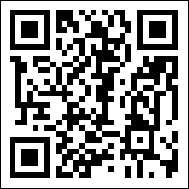
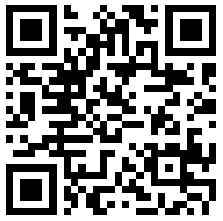
new bitcoin address

diff --git a/index.html b/index.html
@@ -790,8 +790,8 @@
 								<div class="col-md-4 col-sm-4">
 									<a target="_blank" href="https://coinbase.com/bwstitt">
 										<div class="btn-theme client-item">
-											<h2>Bitcoin <img class="qr" src="img/bitcoin_qr.png" alt="1Q1kDTPVb9spMWF24zRJZGwHPq9dMGQrkf" /></h2>
-											<small>1Q1kDTPVb9spMWF24zRJZGwHPq9dMGQrkf</small>
+											<h2>Bitcoin <img class="qr" src="img/bitcoin_qr.png" alt="12H2inF2BzdEQMMLzkDQugGppgHRhefcgN" /></h2>
+											<small>12H2inF2BzdEQMMLzkDQugGppgHRhefcgN</small>
 										</div>
 									</a>
 								</div>
